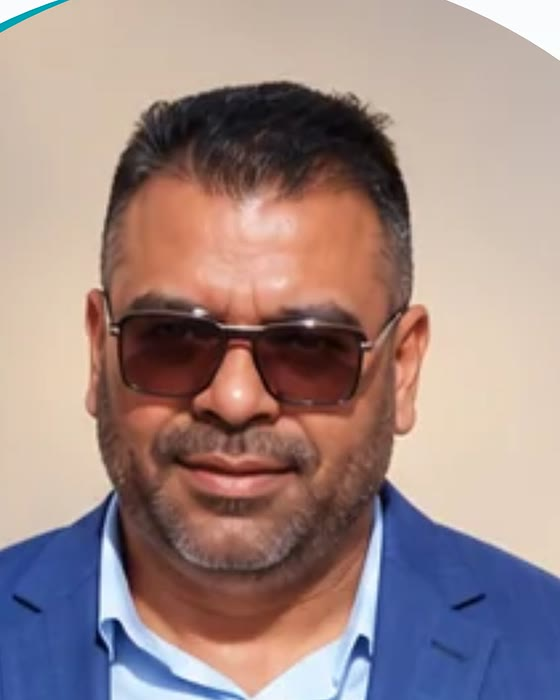
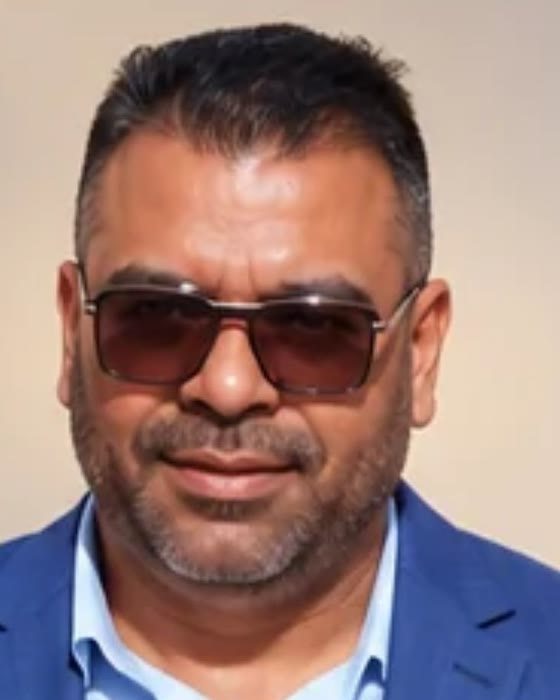
Speakers 2026 v3 : cartes blanches, nom et fonction sous la photo, sans numéros

diff --git a/assets/css/mtl-v2.css b/assets/css/mtl-v2.css
@@ -765,45 +765,46 @@ a:focus-visible, button:focus-visible, input:focus-visible, select:focus-visible
 .ns-eight { flex-shrink: 0; width: auto; height: 128px; filter: drop-shadow(0 10px 18px rgba(60,40,140,.16)); }
 .ns-sub { margin: 12px 0 0; font-size: 15px; font-weight: 500; color: var(--muted); }
 
-.ns-grid.sp26-grid { display: grid; grid-template-columns: repeat(5, minmax(0, 1fr)); gap: 22px; max-width: none; }
-.sp26-item { min-width: 0; list-style: none; }
+.ns-grid.sp26-grid { display: grid; grid-template-columns: repeat(5, minmax(0, 1fr)); gap: 26px 22px; max-width: none; }
+.sp26-item { min-width: 0; list-style: none; display: flex; }
 .sp26-item.reveal { transition-delay: calc(var(--i, 0) * 55ms); }
-.sp26-card { position: relative; display: block; aspect-ratio: 4 / 5; overflow: hidden; border-radius: 22px; background: #1E1841; isolation: isolate;
-    box-shadow: 0 14px 34px rgba(30,24,65,.14), 0 0 0 1px rgba(30,24,65,.05); transition: transform .45s cubic-bezier(.2,.7,.2,1), box-shadow .45s; }
-.sp26-photo, .sp26-photo img { position: absolute; inset: 0; display: block; width: 100%; height: 100%; }
+.sp26-card { position: relative; display: flex; flex-direction: column; width: 100%; padding: 10px 10px 22px; border-radius: 26px; background: #fff;
+    box-shadow: 0 16px 36px rgba(36,26,80,.08), 0 0 0 1px rgba(36,26,80,.06); transition: transform .45s cubic-bezier(.2,.7,.2,1), box-shadow .45s; }
+.sp26-pic { position: relative; aspect-ratio: 4 / 5; overflow: hidden; border-radius: 18px; background: var(--bg-soft); }
+.sp26-pic::after { content: ""; position: absolute; left: 0; bottom: 0; z-index: 1; width: 34px; height: 34px; background: var(--c); clip-path: polygon(0 0, 0 100%, 100% 100%); }
+.sp26-photo, .sp26-photo img { display: block; width: 100%; height: 100%; }
 .sp26-photo img { object-fit: cover; object-position: center 20%; transition: transform .9s cubic-bezier(.2,.7,.2,1); }
-.sp26-card::after { content: ""; position: absolute; inset: 0; z-index: 1; pointer-events: none;
-    background: linear-gradient(180deg, rgba(22,16,58,0) 34%, rgba(22,16,58,.55) 60%, rgba(22,16,58,.94) 100%); }
-.sp26-card::before { content: ""; position: absolute; left: 0; right: 0; bottom: 0; z-index: 3; height: 5px; background: var(--c); }
-.sp26-num { position: absolute; z-index: 2; top: 14px; left: 14px; display: grid; place-items: center; width: 34px; height: 34px;
-    font-size: 12px; font-weight: 800; letter-spacing: .02em; color: #fff; background: var(--c);
-    clip-path: polygon(0 0, 100% 0, 100% 70%, 70% 100%, 0 100%); }
-.sp26-txt { position: absolute; z-index: 2; left: 0; right: 0; bottom: 0; padding: 16px 16px 20px; color: #fff; }
-.sp26-name { margin: 0 0 8px; font-size: 17px; font-weight: 800; line-height: 1.12; letter-spacing: .015em; text-transform: uppercase; color: #fff; text-wrap: balance; }
-.sp26-name span { display: block; margin-bottom: 2px; font-size: 13px; font-weight: 500; letter-spacing: .02em; text-transform: none; color: rgba(255,255,255,.86); }
-.sp26-role { margin: 0; padding-left: 10px; border-left: 2px solid var(--c); font-size: 12.5px; line-height: 1.42; color: rgba(255,255,255,.8); text-wrap: pretty; }
+.sp26-txt { display: flex; flex-direction: column; align-items: center; padding: 18px 6px 0; text-align: center; }
+.sp26-name { margin: 0; font-size: 17px; font-weight: 800; line-height: 1.15; letter-spacing: .02em; text-transform: uppercase; color: var(--black); text-wrap: balance; }
+.sp26-name span { display: block; margin-bottom: 3px; font-size: 13.5px; font-weight: 500; letter-spacing: .01em; text-transform: none; color: var(--muted); }
+.sp26-bar { display: block; width: 28px; height: 3px; margin: 12px 0; border-radius: 3px; background: var(--c); transition: width .45s cubic-bezier(.2,.7,.2,1); }
+.sp26-role { margin: 0; font-size: 13px; line-height: 1.45; color: var(--muted); text-wrap: pretty; }
 .sp26-role span { display: block; }
-.sp26-role b { font-weight: 700; color: #fff; }
+.sp26-role span + span { margin-top: 4px; }
+.sp26-role b { display: block; margin-top: 1px; font-weight: 700; color: var(--ink); }
 @media (hover: hover) {
-    .sp26-item:hover .sp26-card { transform: translateY(-6px); box-shadow: 0 22px 44px rgba(30,24,65,.22), 0 0 0 1px rgba(30,24,65,.05); }
+    .sp26-item:hover .sp26-card { transform: translateY(-6px); box-shadow: 0 24px 48px rgba(36,26,80,.14), 0 0 0 1px rgba(36,26,80,.06); }
     .sp26-item:hover .sp26-photo img { transform: scale(1.05); }
+    .sp26-item:hover .sp26-bar { width: 56px; }
 }
 @media (max-width: 1199px) { .ns-grid.sp26-grid { grid-template-columns: repeat(4, minmax(0, 1fr)); } }
 @media (max-width: 991px) {
-    .ns-grid.sp26-grid { grid-template-columns: repeat(3, minmax(0, 1fr)); gap: 18px; }
+    .ns-grid.sp26-grid { grid-template-columns: repeat(3, minmax(0, 1fr)); gap: 20px 16px; }
     .ns-eight { height: 104px; }
 }
 @media (max-width: 680px) {
-    .ns-grid.sp26-grid { grid-template-columns: repeat(2, minmax(0, 1fr)); gap: 12px; }
+    .ns-grid.sp26-grid { grid-template-columns: repeat(2, minmax(0, 1fr)); gap: 14px 12px; }
     .ns-head-main { gap: 14px; }
     .ns-eight { height: 82px; }
     .ns-eight-bg { height: 300px; right: -60px; }
-    .sp26-card { border-radius: 16px; }
-    .sp26-num { top: 10px; left: 10px; width: 28px; height: 28px; font-size: 10.5px; }
-    .sp26-txt { padding: 12px 11px 14px; }
-    .sp26-name { font-size: 13.5px; margin-bottom: 6px; }
-    .sp26-name span { font-size: 11px; }
-    .sp26-role { padding-left: 7px; font-size: 10.8px; line-height: 1.36; }
+    .sp26-card { padding: 7px 7px 16px; border-radius: 18px; }
+    .sp26-pic { border-radius: 13px; }
+    .sp26-pic::after { width: 24px; height: 24px; }
+    .sp26-txt { padding: 12px 2px 0; }
+    .sp26-name { font-size: 13.5px; }
+    .sp26-name span { font-size: 11.5px; }
+    .sp26-bar { margin: 9px 0; width: 22px; }
+    .sp26-role { font-size: 11.5px; line-height: 1.4; }
 }
 
 /* v11 — en-tête compact entre 992 et 1279 px : le menu reste sur une ligne */

diff --git a/assets/js/mtl.js b/assets/js/mtl.js
@@ -247,7 +247,7 @@
             box.outerHTML = '<p class="ns-soon">New Speakers 2026 — <span>Coming soon</span></p>';
             return;
         }
-        // Style 2026 (v2) : carte portrait plein cadre, numéro, nom + fonction sur dégradé. Pas de drapeaux.
+        // Style 2026 (v3) : carte blanche, photo encadrée, nom + fonction SOUS la photo. Ni numéro ni drapeau.
         box.classList.add("sp26-grid");
         box.innerHTML = list.map(function (s, i) {
             var img = ROOT + s.image;
@@ -259,17 +259,16 @@
             var k = words.findIndex(function (w) { return w.length > 1 && w === w.toUpperCase(); });
             if (k < 1) k = words.length - 1;
             var first = words.slice(0, k).join(" "), last = words.slice(k).join(" ");
-            var num = (i + 1 < 10 ? "0" : "") + (i + 1);
             return '<li class="sp26-item reveal" style="--c:' + s.color + ';--i:' + i + '">' +
                 '<article class="sp26-card">' +
-                '<span class="sp26-num" aria-hidden="true">' + num + '</span>' +
-                '<picture class="sp26-photo">' +
+                '<div class="sp26-pic"><picture class="sp26-photo">' +
                 '<source type="image/webp" srcset="' + esc(img.replace(/\.jpg$/, ".webp") + v) + '">' +
                 '<img src="' + esc(img + v) + '" alt="' + esc(s.name + ", " + plain) + '" width="' + s.width + '" height="' + s.height + '" loading="lazy" decoding="async">' +
-                '</picture>' +
+                '</picture></div>' +
                 '<div class="sp26-txt">' +
                 '<h3 class="sp26-name"><span>' + esc(first) + '</span>' + esc(last) + '</h3>' +
-                '<p class="sp26-role">' + titles.map(function (t) { return '<span>' + esc(t.role) + (t.organization ? ' <b>' + esc(t.organization) + '</b>' : '') + '</span>'; }).join("") + '</p>' +
+                '<i class="sp26-bar" aria-hidden="true"></i>' +
+                '<p class="sp26-role">' + titles.map(function (t) { return '<span>' + esc(t.role) + (t.organization ? '<b>' + esc(t.organization) + '</b>' : '') + '</span>'; }).join("") + '</p>' +
                 '</div></article></li>';
         }).join("");
     });

diff --git a/africa-impact-awards/nomination/index.html b/africa-impact-awards/nomination/index.html
@@ -19,8 +19,8 @@
     <link rel="preconnect" href="https://fonts.gstatic.com" crossorigin>
     <link rel="stylesheet" href="https://fonts.googleapis.com/css2?family=Poppins:wght@400;500;600;700;800&display=swap">
     <link rel="stylesheet" href="../../assets/css/fontawesome-all.min.css">
-    <link rel="stylesheet" href="../../assets/css/mtl.css?v=11">
-    <link rel="stylesheet" href="../../assets/css/mtl-v2.css?v=11">
+    <link rel="stylesheet" href="../../assets/css/mtl.css?v=12">
+    <link rel="stylesheet" href="../../assets/css/mtl-v2.css?v=12">
 </head>
 
 <body data-root="../../">
@@ -179,8 +179,8 @@
 
     <button class="back-top" type="button" aria-label="Retour en haut"><i class="fas fa-arrow-up"></i></button>
 
-    <script src="../../assets/js/mtl-data.js?v=11"></script>
-    <script src="../../assets/js/mtl.js?v=11"></script>
+    <script src="../../assets/js/mtl-data.js?v=12"></script>
+    <script src="../../assets/js/mtl.js?v=12"></script>
 </body>
 
 </html>

diff --git a/bridge-to-job/inscription/index.html b/bridge-to-job/inscription/index.html
@@ -17,8 +17,8 @@
     <link rel="preconnect" href="https://fonts.gstatic.com" crossorigin>
     <link rel="stylesheet" href="https://fonts.googleapis.com/css2?family=Poppins:wght@400;500;600;700;800&display=swap">
     <link rel="stylesheet" href="../../assets/css/fontawesome-all.min.css">
-    <link rel="stylesheet" href="../../assets/css/mtl.css?v=11">
-    <link rel="stylesheet" href="../../assets/css/mtl-v2.css?v=11">
+    <link rel="stylesheet" href="../../assets/css/mtl.css?v=12">
+    <link rel="stylesheet" href="../../assets/css/mtl-v2.css?v=12">
 </head>
 
 <body data-root="../../">
@@ -177,8 +177,8 @@
 
     <button class="back-top" type="button" aria-label="Retour en haut"><i class="fas fa-arrow-up"></i></button>
 
-    <script src="../../assets/js/mtl-data.js?v=11"></script>
-    <script src="../../assets/js/mtl.js?v=11"></script>
+    <script src="../../assets/js/mtl-data.js?v=12"></script>
+    <script src="../../assets/js/mtl.js?v=12"></script>
 </body>
 
 </html>

diff --git a/hackathon/inscription/index.html b/hackathon/inscription/index.html
@@ -17,8 +17,8 @@
     <link rel="preconnect" href="https://fonts.gstatic.com" crossorigin>
     <link rel="stylesheet" href="https://fonts.googleapis.com/css2?family=Poppins:wght@400;500;600;700;800&display=swap">
     <link rel="stylesheet" href="../../assets/css/fontawesome-all.min.css">
-    <link rel="stylesheet" href="../../assets/css/mtl.css?v=11">
-    <link rel="stylesheet" href="../../assets/css/mtl-v2.css?v=11">
+    <link rel="stylesheet" href="../../assets/css/mtl.css?v=12">
+    <link rel="stylesheet" href="../../assets/css/mtl-v2.css?v=12">
 </head>
 
 <body data-root="../../">
@@ -250,8 +250,8 @@
 
     <button class="back-top" type="button" aria-label="Retour en haut"><i class="fas fa-arrow-up"></i></button>
 
-    <script src="../../assets/js/mtl-data.js?v=11"></script>
-    <script src="../../assets/js/mtl.js?v=11"></script>
+    <script src="../../assets/js/mtl-data.js?v=12"></script>
+    <script src="../../assets/js/mtl.js?v=12"></script>
 </body>
 
 </html>

diff --git a/devenir-partenaire/index.html b/devenir-partenaire/index.html
@@ -17,8 +17,8 @@
     <link rel="preconnect" href="https://fonts.gstatic.com" crossorigin>
     <link rel="stylesheet" href="https://fonts.googleapis.com/css2?family=Poppins:wght@400;500;600;700;800&display=swap">
     <link rel="stylesheet" href="../assets/css/fontawesome-all.min.css">
-    <link rel="stylesheet" href="../assets/css/mtl.css?v=11">
-    <link rel="stylesheet" href="../assets/css/mtl-v2.css?v=11">
+    <link rel="stylesheet" href="../assets/css/mtl.css?v=12">
+    <link rel="stylesheet" href="../assets/css/mtl-v2.css?v=12">
 </head>
 
 <body data-root="../">
@@ -232,8 +232,8 @@
 
     <button class="back-top" type="button" aria-label="Retour en haut"><i class="fas fa-arrow-up"></i></button>
 
-    <script src="../assets/js/mtl-data.js?v=11"></script>
-    <script src="../assets/js/mtl.js?v=11"></script>
+    <script src="../assets/js/mtl-data.js?v=12"></script>
+    <script src="../assets/js/mtl.js?v=12"></script>
 </body>
 
 </html>

diff --git a/about.html b/about.html
@@ -17,8 +17,8 @@
     <link rel="preconnect" href="https://fonts.gstatic.com" crossorigin>
     <link rel="stylesheet" href="https://fonts.googleapis.com/css2?family=Poppins:wght@400;500;600;700;800&display=swap">
     <link rel="stylesheet" href="assets/css/fontawesome-all.min.css">
-    <link rel="stylesheet" href="assets/css/mtl.css?v=11">
-    <link rel="stylesheet" href="assets/css/mtl-v2.css?v=11">
+    <link rel="stylesheet" href="assets/css/mtl.css?v=12">
+    <link rel="stylesheet" href="assets/css/mtl-v2.css?v=12">
 </head>
 
 <body>
@@ -295,8 +295,8 @@
         </div>
     </div>
 
-    <script src="assets/js/mtl-data.js?v=11"></script>
-    <script src="assets/js/mtl.js?v=11"></script>
+    <script src="assets/js/mtl-data.js?v=12"></script>
+    <script src="assets/js/mtl.js?v=12"></script>
 </body>
 
 </html>

diff --git a/blog.html b/blog.html
@@ -17,8 +17,8 @@
     <link rel="preconnect" href="https://fonts.gstatic.com" crossorigin>
     <link rel="stylesheet" href="https://fonts.googleapis.com/css2?family=Poppins:wght@400;500;600;700;800&display=swap">
     <link rel="stylesheet" href="assets/css/fontawesome-all.min.css">
-    <link rel="stylesheet" href="assets/css/mtl.css?v=11">
-    <link rel="stylesheet" href="assets/css/mtl-v2.css?v=11">
+    <link rel="stylesheet" href="assets/css/mtl.css?v=12">
+    <link rel="stylesheet" href="assets/css/mtl-v2.css?v=12">
 </head>
 
 <body>
@@ -180,8 +180,8 @@
         </div>
     </div>
 
-    <script src="assets/js/mtl-data.js?v=11"></script>
-    <script src="assets/js/mtl.js?v=11"></script>
+    <script src="assets/js/mtl-data.js?v=12"></script>
+    <script src="assets/js/mtl.js?v=12"></script>
 </body>
 
 </html>

diff --git a/blog_details.html b/blog_details.html
@@ -17,8 +17,8 @@
     <link rel="preconnect" href="https://fonts.gstatic.com" crossorigin>
     <link rel="stylesheet" href="https://fonts.googleapis.com/css2?family=Poppins:wght@400;500;600;700;800&display=swap">
     <link rel="stylesheet" href="assets/css/fontawesome-all.min.css">
-    <link rel="stylesheet" href="assets/css/mtl.css?v=11">
-    <link rel="stylesheet" href="assets/css/mtl-v2.css?v=11">
+    <link rel="stylesheet" href="assets/css/mtl.css?v=12">
+    <link rel="stylesheet" href="assets/css/mtl-v2.css?v=12">
 </head>
 
 <body>
@@ -149,8 +149,8 @@
         </div>
     </div>
 
-    <script src="assets/js/mtl-data.js?v=11"></script>
-    <script src="assets/js/mtl.js?v=11"></script>
+    <script src="assets/js/mtl-data.js?v=12"></script>
+    <script src="assets/js/mtl.js?v=12"></script>
 </body>
 
 </html>

diff --git a/contact.html b/contact.html
@@ -17,8 +17,8 @@
     <link rel="preconnect" href="https://fonts.gstatic.com" crossorigin>
     <link rel="stylesheet" href="https://fonts.googleapis.com/css2?family=Poppins:wght@400;500;600;700;800&display=swap">
     <link rel="stylesheet" href="assets/css/fontawesome-all.min.css">
-    <link rel="stylesheet" href="assets/css/mtl.css?v=11">
-    <link rel="stylesheet" href="assets/css/mtl-v2.css?v=11">
+    <link rel="stylesheet" href="assets/css/mtl.css?v=12">
+    <link rel="stylesheet" href="assets/css/mtl-v2.css?v=12">
 </head>
 
 <body>
@@ -169,8 +169,8 @@
         </div>
     </div>
 
-    <script src="assets/js/mtl-data.js?v=11"></script>
-    <script src="assets/js/mtl.js?v=11"></script>
+    <script src="assets/js/mtl-data.js?v=12"></script>
+    <script src="assets/js/mtl.js?v=12"></script>
 </body>
 
 </html>

diff --git a/index.html b/index.html
@@ -17,8 +17,8 @@
     <link rel="preconnect" href="https://fonts.gstatic.com" crossorigin>
     <link rel="stylesheet" href="https://fonts.googleapis.com/css2?family=Poppins:wght@400;500;600;700;800&display=swap">
     <link rel="stylesheet" href="assets/css/fontawesome-all.min.css">
-    <link rel="stylesheet" href="assets/css/mtl.css?v=11">
-    <link rel="stylesheet" href="assets/css/mtl-v2.css?v=11">
+    <link rel="stylesheet" href="assets/css/mtl.css?v=12">
+    <link rel="stylesheet" href="assets/css/mtl-v2.css?v=12">
 </head>
 
 <body>
@@ -565,8 +565,8 @@
         </div>
     </div>
 
-    <script src="assets/js/mtl-data.js?v=11"></script>
-    <script src="assets/js/mtl.js?v=11"></script>
+    <script src="assets/js/mtl-data.js?v=12"></script>
+    <script src="assets/js/mtl.js?v=12"></script>
 </body>
 
 </html>

diff --git a/schedule.html b/schedule.html
@@ -17,8 +17,8 @@
     <link rel="preconnect" href="https://fonts.gstatic.com" crossorigin>
     <link rel="stylesheet" href="https://fonts.googleapis.com/css2?family=Poppins:wght@400;500;600;700;800&display=swap">
     <link rel="stylesheet" href="assets/css/fontawesome-all.min.css">
-    <link rel="stylesheet" href="assets/css/mtl.css?v=11">
-    <link rel="stylesheet" href="assets/css/mtl-v2.css?v=11">
+    <link rel="stylesheet" href="assets/css/mtl.css?v=12">
+    <link rel="stylesheet" href="assets/css/mtl-v2.css?v=12">
 </head>
 
 <body>
@@ -268,8 +268,8 @@
         </div>
     </div>
 
-    <script src="assets/js/mtl-data.js?v=11"></script>
-    <script src="assets/js/mtl.js?v=11"></script>
+    <script src="assets/js/mtl-data.js?v=12"></script>
+    <script src="assets/js/mtl.js?v=12"></script>
 </body>
 
 </html>
